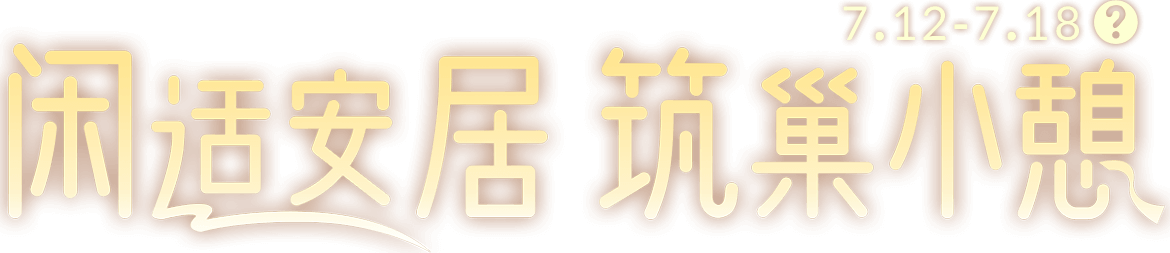
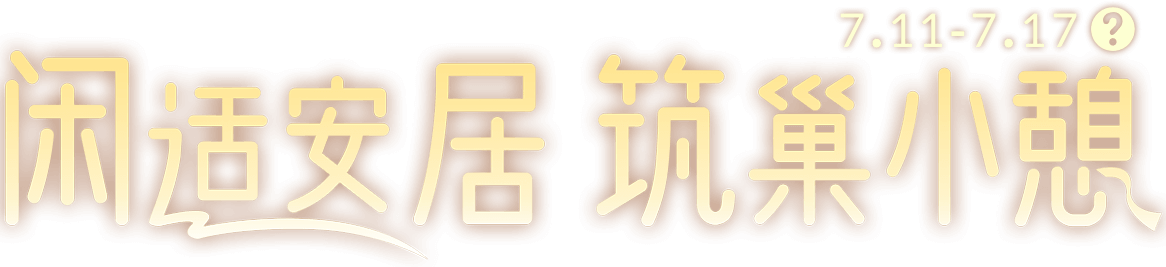
refs #53152 【活动中心】【筑巢季】筑巢季是7.17 23:59结束，活动时间应该是7.11-7.17。需要改一下activity_season22_sprint，#52861 【活动中心】筑巢季冲刺活动任务四领奖后，弹窗里显示的内容图片和文本都有错误

diff --git a/src/views/Season22Sprint/Season22Sprint.vue b/src/views/Season22Sprint/Season22Sprint.vue
@@ -37,7 +37,7 @@
           <template #content>
             <p class="modal-text">
               <span class="font-semibold">活动时间：</span
-              >2024年7月12日~2024年7月18日
+              >2024年7月11日~2024年7月17日
             </p>
             <p class="modal-text">
               <span class="font-semibold">活动内容：</span>
@@ -68,19 +68,30 @@
         </activity-modal>
         <activity-modal ref="modalReward">
           <template #content>
-            <p class="modal-text">
-              恭喜你获得
-              <span class="modal-text-blue"
-                >{{ rewardsText[curRewards.name as keyof RewardsName] }} *
-                {{ curRewards.count }}</span
-              >：
-            </p>
-            <div class="mt-10 flex items-center justify-center">
-              <img
-                class="modal-reward"
-                :src="handleSrc(String(curRewards.name))"
-                alt="reward"
-              />
+            <div v-if="rewardModalType === 'defaultType'">
+              <p class="modal-text">
+                恭喜你获得
+                <span class="modal-text-blue"
+                  >{{ rewardsText[curRewards.name as keyof RewardsName] }} *
+                  {{ curRewards.count }}</span
+                >：
+              </p>
+              <div class="mt-10 flex items-center justify-center">
+                <img
+                  class="modal-reward"
+                  :src="handleSrc(String(curRewards.name))"
+                  alt="reward"
+                />
+              </div>
+            </div>
+            <div v-else>
+              <p class="modal-text">领取奖励说明：</p>
+              <p class="modal-text mt-1">
+                2024年7月25日<span class="text-[#ffcb4d]">新版本更新后</span
+                >，可在游戏内通过<span class="text-[#ffcb4d]">邮件</span
+                >领取<span class="text-[#ffcb4d]">季节蜡烛*6</span
+                >，感谢您的参与！
+              </p>
             </div>
           </template>
         </activity-modal>
@@ -117,6 +128,9 @@ const rewardsText: RewardsName = {
   heart: '爱心',
   season_candle: '新赛季季节蜡烛',
 }
+
+// delayType任务4是发延迟奖品，奖品弹窗形式有所区别
+const rewardModalType = ref<'defaultType' | 'delayType'>('defaultType')
 
 // 设计稿宽
 const DESIGN_WIDTH = 2560
@@ -288,11 +302,16 @@ function handleReward(task: string, status: string): void {
   })
     .then((res) => {
       const rewards = res.data.rewards
-      modalReward.value?.openModal()
-      curRewards.value = {
-        name: Object.keys(rewards)[0],
-        count: Number(Object.values(rewards)[0]),
+      if (task === 'activity_season22_sprint_m4') {
+        rewardModalType.value = 'delayType'
+      } else {
+        rewardModalType.value = 'defaultType'
+        curRewards.value = {
+          name: Object.keys(rewards)[0],
+          count: Number(Object.values(rewards)[0]),
+        }
       }
+      modalReward.value?.openModal()
       // 后端接口请求限制间隔 3s
       // 优化用户体验，不再延时请求接口，直接前端更新数据展示
       const newActivityData = activityData.value.map((item) => {
@@ -355,9 +374,9 @@ function handleReward(task: string, status: string): void {
 .title {
   position: absolute;
   left: 448px;
-  bottom: 50px;
-  width: 1170px;
-  height: 253px;
+  top: 840px;
+  width: 1166px;
+  height: 267px;
   background-image: url('@/assets/images/season22-sprint/title.png');
 }
 .date-help {
@@ -398,7 +417,7 @@ function handleReward(task: string, status: string): void {
     }
     @if $i == 4 {
       top: 402px;
-      right: 318px;
+      left: 1356px;
     }
   }
 }

diff --git a/src/components/Modal/Modal.vue b/src/components/Modal/Modal.vue
@@ -81,7 +81,7 @@ defineExpose({
   &-content {
     padding-bottom: 80px;
     height: 600px;
-    overflow-y: scroll;
+    overflow-y: auto;
     mask-image: linear-gradient(to bottom, black 80%, transparent);
   }
 }
